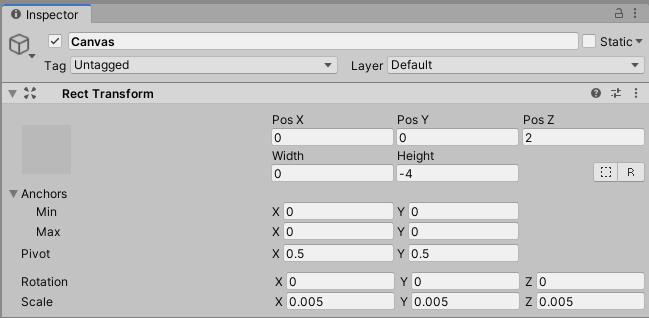
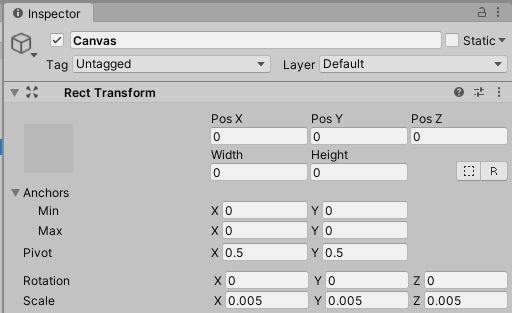
add how to use eye tracking for auto scroll

diff --git a/lessons/lesson-4/project/how-to-use-eye-tracking-for-auto-scroll.md b/lessons/lesson-4/project/how-to-use-eye-tracking-for-auto-scroll.md
@@ -1,0 +1,183 @@
+# How to Use Eye-tracking for Auto Scroll
+
+Auto scroll enables the user to scroll through texts without lifting a finger. As the user reads, the text automatically scrolls up or down depending on where the user is looking. In this project, you will create an object that contains a passage of text. As the user reads the text, the text will automatically scroll using eye-tracking data.
+
+First, create an empty game object to organize all the objects together for this project. In the Hierarchy window, right click on an empty space and select **Create Empty**. Name the empty game object **Auto Scroll** and set the **Transform Position** to x = 0, y = 0, z = 2.
+
+![Device System Settings](../../../.gitbook/assets/how-to-use-eye-tracking-for-auto-scroll/create_empty_game_object.png)
+
+Next, create a surface for the text. In the Hierarchy window, select the **Auto Scroll** object. Right click on the object and select **3D Object** > **Quad**. This will create a Quad GameObject as a child of **Auto Scroll**.
+
+![Create Quad GameObject](../../../.gitbook/assets/how-to-use-eye-tracking-for-auto-scroll/create_quad.png)
+
+In the Hierarchy window, select the **Quad** object. In the Inspector window, change the Quad **Transform** parameters to the following:
+
+- **Position**: x = 0, y = 0, z = 0.02
+- **Rotation**: x = 0, y = 0, z = 0
+- **Scale**: x = 0.6, y = 0.5, z = 0.02
+
+![Quad Transform](../../../.gitbook/assets/how-to-use-eye-tracking-for-auto-scroll/quad_transform.png)
+
+You can add a background color to the Quad object by adding a material component to the object. In the Hierarchy window, select the Quad object. In the Project window, search for **HolographicBackPlateNoBorder**. Once found, drag the **HolographicBackPlateNoBorder** material onto the **Quad** object.
+
+![Search for HolographicBackPlateNoBorder](../../../.gitbook/assets/how-to-use-eye-tracking-for-auto-scroll/add_backplate.png)
+
+In the Scene window, the Quad object's color should be blue.
+
+![Blue Quad](../../../.gitbook/assets/how-to-use-eye-tracking-for-auto-scroll/blue_quad.png)
+
+Next, create a canvas for the text that will display on the Quad object. In the Hierarchy window, select the **Auto Scroll** object. Right click on the object and select **UI** > **Canvas**. This will create a Canvas GameObjet as a child of **Auto Scroll**.
+
+![Create Canvas](../../../.gitbook/assets/how-to-use-eye-tracking-for-auto-scroll/canvas.png)
+
+With the **Canvas** object select, in the Inspector window, change **Render Mode** to **World Space**. This parameter determines how the UI is rendered as an object in 3D space.
+
+![Change Render Mode to World Space](../../../.gitbook/assets/how-to-use-eye-tracking-for-auto-scroll/world_space.png)
+
+With the **Canvas** object still selected, in the Inspector window, change the following parameters in the **Rect Transform** component:
+
+- **Position**: x = 0, y = 0, z = 0
+- **Width**: 0
+- **Height**: 0
+- **Anchors Min**: x = 0, y = 0
+- **Anchors Max**: x = 0, y = 0
+- **Pivot**: x = 0.5, y = 0.5
+- **Scale**: x = 0.005, y = 0.005, z = 0.005
+
+These adjustments will align the canvas to display within the shape of the Quad object.
+
+![Change Rect Tranform parameters](../../../.gitbook/assets/how-to-use-eye-tracking-for-auto-scroll/canvas_rect_transform.png)
+
+With the **Canvas** object still selected, right click the object and select **UI** > **Scroll View**. This will create a **Scroll View** GameObject as a child of **Canvas**.
+
+![Create Scroll View GameObject](../../../.gitbook/assets/how-to-use-eye-tracking-for-auto-scroll/scroll_view.png)
+
+With the **Scroll View** object selected, in the Inspector window, change the following parameters in the **Rect Transform** component:
+
+- **Position**: x = 0, y = 0, z = 0
+- **Width**: 110
+- **Height**: 90
+- **Anchors Min**: x = 0.5, y = 0.5
+- **Anchors Max**: x = 0.5, y = 0.5
+- **Pivot**: x = 0.5, y = 0.5
+- **Rotation**: x = 0, y = 0, z = 0
+- **Scale**: x = 1, y = 1, z = 1
+
+![Scroll View Rect Transform](../../../.gitbook/assets/how-to-use-eye-tracking-for-auto-scroll/scroll_view_rect_transform_new.png)
+
+These adjustments will align the scroll view region to display within the shape of the Quad object. In addition, un-check the box next to the **Image** component to remove the white background.
+
+![Uncheck Image](../../../.gitbook/assets/how-to-use-eye-tracking-for-auto-scroll/uncheck_image.png)
+
+With the **Scroll View** object still selected, scroll to the **Scroll Rect** component in the Inspector window. Change the following parameters:
+
+- **Content**: **None (Rect Transform)**
+- Uncheck the box next to **Horizontal**
+- **Movement Type**: **Clamped**
+
+[add image]
+
+The *Scroll View** object is created with 3 child objects:
+- Viewport
+- Scrollbar Horizontal
+- Scrollbar Vertical
+
+The **Viewport** object will contain both an object for the eye gaze region as well as the text that will display on the Quad object. However, the **Viewport** object currently contains a **Content** child object. Right click the **Content** object and select **Delete** as this object will not be needed.
+
+![Delete Content](../../../.gitbook/assets/how-to-use-eye-tracking-for-auto-scroll/delete_content_object.png)
+
+The **Viewport** object should now be empty. First, create an object for the eyg gaze region. In the Hierarchy window, select the **Quad** object. Right click on the object and select **Create Empty**. This will create an empty **GameObject** as a child of **Quad**. Rename the object **ActiveEyeGazeRegion** and drag the object to become the child of **Viewport**.
+
+![Create ActiveGazeRegion GameObject](../../../.gitbook/assets/how-to-use-eye-tracking-for-auto-scroll/active_eye_gaze_region_child.png)
+
+In the Inspector window, change the **Transform Position** for **ActiveEyeGazeRegion** to x = 55, y = -50, z = 0. Also ensure that **Scale** is set to x = 100, y = 100, z = 4.
+
+![Change ActiveEyeGazeRegion Transform Position](../../../.gitbook/assets/how-to-use-eye-tracking-for-auto-scroll/active_eye_gaze_region_transfom.png)
+
+In the Inspector window, click **Add Component** and search for **Box Collider**. Once found, select to add a box collider to the object.
+
+![Add Box Collider component](../../../.gitbook/assets/how-to-use-eye-tracking-for-auto-scroll/box_collider.png)
+
+The **EyeTrackingTarget** and **ScrollRectTransf** scripts will be added to the **ActiveEyeGazeRegion** object. First, add the **EyeTrackingTarget** script. In the Hierarchy window, select the **ActiveEyeGazeRegion** object. In the Inspector window, click **Add Component** and search for **Eye Tracking Target**. Once found, select the script to add the **EyeTrackingTarget (Script)** component to **ActiveEyeGazeRegion**.
+
+![Add Eye Tracking Target Script component](../../../.gitbook/assets/how-to-use-eye-tracking-for-auto-scroll/add_eye_tracking_target.png)
+
+Next, click **Add Component** and search for **Scroll Rect Transf**. Once found, select the script to add the **ScrollRectTransf (Script)** component to **ActiveEyeGazeRegion**.
+
+![Add ActiveEyeGazeRegion Script component](../../../.gitbook/assets/how-to-use-eye-tracking-for-auto-scroll/add_scroll_rect_transf.png)
+
+Now you will add the text to display on the Quad object. In the Hierarchy window, select the **Viewport** object. Right click on the object and select **UI** > **Text - TextMeshPro**. Rename the object **Text**.
+
+![Create Text - TextMeshPro GameObject](../../../.gitbook/assets/how-to-use-eye-tracking-for-auto-scroll/text_child.png)
+
+With the **Text** object selected, in the Inspector window, scroll to the **TextMeshPro - Text (UI)** component. In the **Text** parameter, enter a long passage. A sample passage is provided below:
+
+*What is Mixed Reality?*
+
+*Mixed reality is the result of blending the physical world with the digital world. Mixed reality is the next evolution in human, computer, and environment interaction and unlocks possibilities that before now were restricted to our imaginations. It is made possible by advancements in computer vision, graphical processing power, display technology, and input systems. The term mixed reality was originally introduced in a 1994 paper by Paul Milgram and Fumio Kishino, "A Taxonomy of Mixed Reality Visual Displays." Their paper introduced the concept of the virtuality continuum, and focused on how the categorization of taxonomy applied to displays. Since then, the application of mixed reality goes beyond displays. It also includes environmental input, spatial sound, and location.*
+
+*Environmental input and perception
+Over the past several decades, the relationship between human and computer input has been well explored. It even has a widely studied discipline known as human computer interaction or HCI. Human input happens through a variety of means, including keyboards, mice, touch, ink, voice, and even Kinect skeletal tracking.*
+
+*Advancements in sensors and processing are giving rise to a new area of computer input from environments. The interaction between computers and environments is effectively environmental understanding or perception. Hence the API names in Windows that reveal environmental information are called the perception APIs. Environmental input captures things like a person's position in the world (e.g. head tracking), surfaces and boundaries (e.g. spatial mapping and scene understanding), ambient lighting, environmental sound, object recognition, and location.*
+
+![Add text](../../../.gitbook/assets/how-to-use-eye-tracking-for-auto-scroll/add_text.png)
+
+With the **Text** object still selected, in the Inspector window, change the parameters to the following:
+
+- **Width**: 110
+- **Font Size** to **4**
+- **Vertex Color** to **E2E2E2**
+- **Spacing Options > Line** to **40**
+- **Overflow** to **Scroll Rect**
+- **Margins** to Left = 5, Top = 5, Right = 5, Bottom = 5
+- Check the box for **Extra Padding**
+
+![Change Text properties](../../../.gitbook/assets/how-to-use-eye-tracking-for-auto-scroll/text_parameters.png)
+
+Next, with the **Text** object still selected, in the Inspector window, click **Add Component** and search for **Content Size Fitter**. Once found, select and add the **Content Size Fitter** component to the **Text** object.
+
+![Add Content Size Fitter component](../../../.gitbook/assets/how-to-use-eye-tracking-for-auto-scroll/add_content_size_fitter.png)
+
+For the **Content Size Fitter** component, change the **Vertical Fit** to **Preferred Size**.
+
+![Change Vertical Fit to Preferred Size](../../../.gitbook/assets/how-to-use-eye-tracking-for-auto-scroll/vertical_fit.png)
+
+You now need to go back to the **ActiveEyeGazeRegion** object to create events for the **EyeTrackingTarget** component so that eye tracking starts when the user is looking at the target and stops when the user looks away. In the Hierarchy window, select **ActiveEyeGazeRegion**. In the Inspector window, scroll to the **EyeTrackingTarget** component.
+
+Add an **On Look At Start()** event. Assign the **ActiveEyeGazeRegion** object to the event and select **ScrollRectTransf.StartFocusing** as the action.
+
+![Create On Look At Start() event](../../../.gitbook/assets/how-to-use-eye-tracking-for-auto-scroll/on_start_event.png)
+
+Next, add an **On Look Away()** event. Assign the **ActiveEyeGazeRegion** object to the event and select **ScrollRectTransf.StopFocusing** as the action.
+
+![Create On Look Away() event](../../../.gitbook/assets/how-to-use-eye-tracking-for-auto-scroll/on_look_away.png)
+
+Now, you need to assign the **Text** and **Viewport** objects to the **ScrollRectTransf** component. Scroll down to the **ScrollRectTransf** component. Assign the **Text** object to **Rect Transf to Navigate** and **Viewport** to **Ref to View Port**.
+
+![Assign Text and Viewport to ScrollRectTransf component](../../../.gitbook/assets/how-to-use-eye-tracking-for-auto-scroll/assign_to_scrollrectransf.png)
+
+The final step is to change the scroll bars. In the Hierarchy window, select the **Scrollbar Horizontal** object. In the Inspector window, adjust the following settings:
+
+- **Height**: **7**
+- Image > **Color**: **525252**
+- Scrollbar > Transition > **Normal Color**: **525252**
+- Scrollbar > Transition> **Color Multiplier**: **2**
+
+![Scrollbar Horizontal](../../../.gitbook/assets/how-to-use-eye-tracking-for-auto-scroll/sb_horizontal.png)
+
+Next, select the **Scrollbar Vertical** object in the Hierarchy. In the Inspector window, adjust the following settings:
+
+- **Position**: x = 3, y = 0, z = 0
+- **Width**: **7**
+- Image > **Color**: **525252**
+- Scrollbar > Transition > **Normal Color**: **525252**
+- Scrollbar > Transition > **Color Multiplier**: **2**
+- Scrollbar > **Value**: **0**
+- Scrollbar > **Size**: **1**
+
+![Scrollbar Vertical](../../../.gitbook/assets/how-to-use-eye-tracking-for-auto-scroll/sb_vertical.png)
+
+To test your scene using the in-editor simulation, enter Game mode by pressing play. Use the keyboard to zoom in towards the text. Once the text is centered on the scroll, use the keyword to move the camera down. You will notice that the text will start to scroll down. If you move the camera up, the text will start to scroll up.
+
+![Game mode](../../../.gitbook/assets/how-to-use-eye-tracking-for-auto-scroll/game_mode.png)
